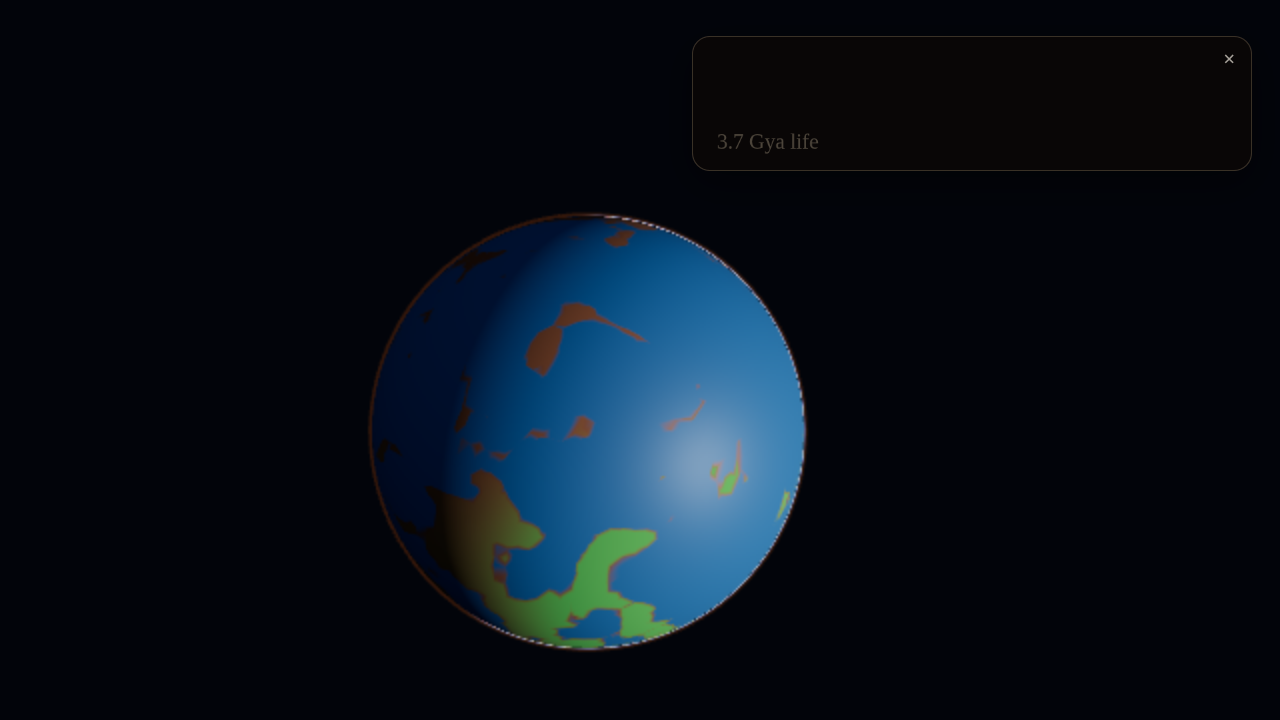
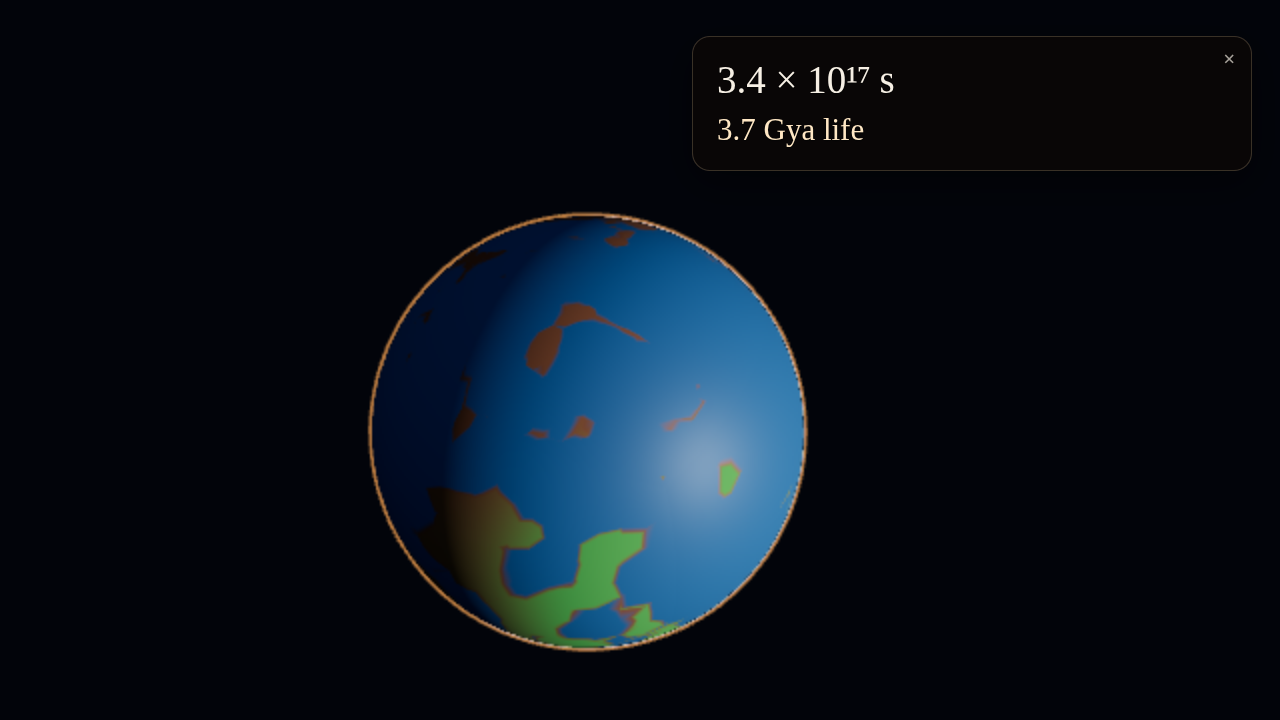
fix: keep an orange limb while plants spread (T-0166)
The plant frame's sky was already blue. The haze now stays orange
through the first half of that beat and clears as the green spreads.

diff --git a/src/world/globe/atmosphere.ts b/src/world/globe/atmosphere.ts
@@ -286,7 +286,7 @@ void main() {
       if (abs(a - dl) < 0.00466) c += 40.0 * exp(-((BR + BO) * exp(-ht / HR) * sqrt(2.0 * PI * uRp * HR) + BME * exp(-ht / HM) * sqrt(2.0 * PI * uRp * HM))); } }
   c += atmEmission(rd, 1e9);
   { vec4 cl = atmClouds(rd, tEnd, int(uSteps.y)); c = mix(c, cl.rgb, cl.a); }
-  c = mix(c, vec3(c.r * 1.4 + 0.12, c.g * 0.4 + 0.04, c.b * 0.12), clamp(uSkyWarm, 0.0, 1.0));
+  c = mix(c, vec3(0.95, 0.38, 0.1) * (0.55 + c.r), clamp(uSkyWarm, 0.0, 1.0));
   gl_FragColor = vec4(c, 1.0);
 #include <tonemapping_fragment>
 #include <colorspace_fragment>

diff --git a/src/world/cosmos/opening.ts b/src/world/cosmos/opening.ts
@@ -340,7 +340,7 @@ export function createOpening(onPlanet: () => void, onBegin?: () => void, earth?
     } else if (stage === 'b13') {
       const u = Math.min(1, Math.max(0, (t - CINE.b12End) / (CINE.b13End - CINE.b12End)));
       era.set(0, 1, u, 0);
-      GLOBE_SKY.warm = 0.8 * (1 - u);
+      GLOBE_SKY.warm = 0.9 * (1 - u * u);
       GLOBE_SKY.steam = 0.4 * (1 - u);
       GLOBE_SKY.clear = 0.15 * (1 - u);
     } else {
